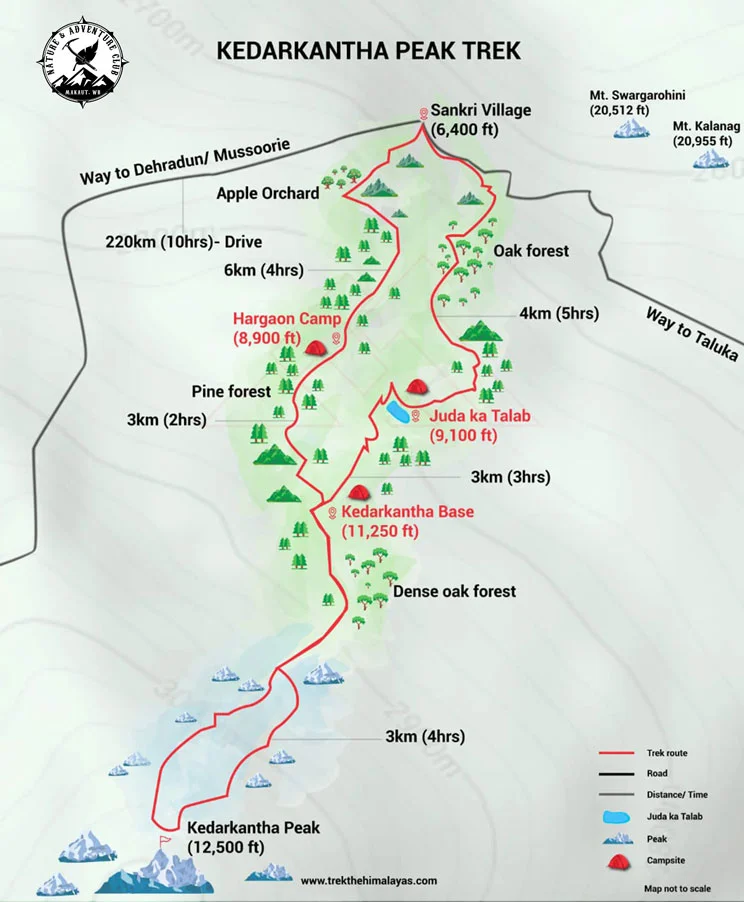
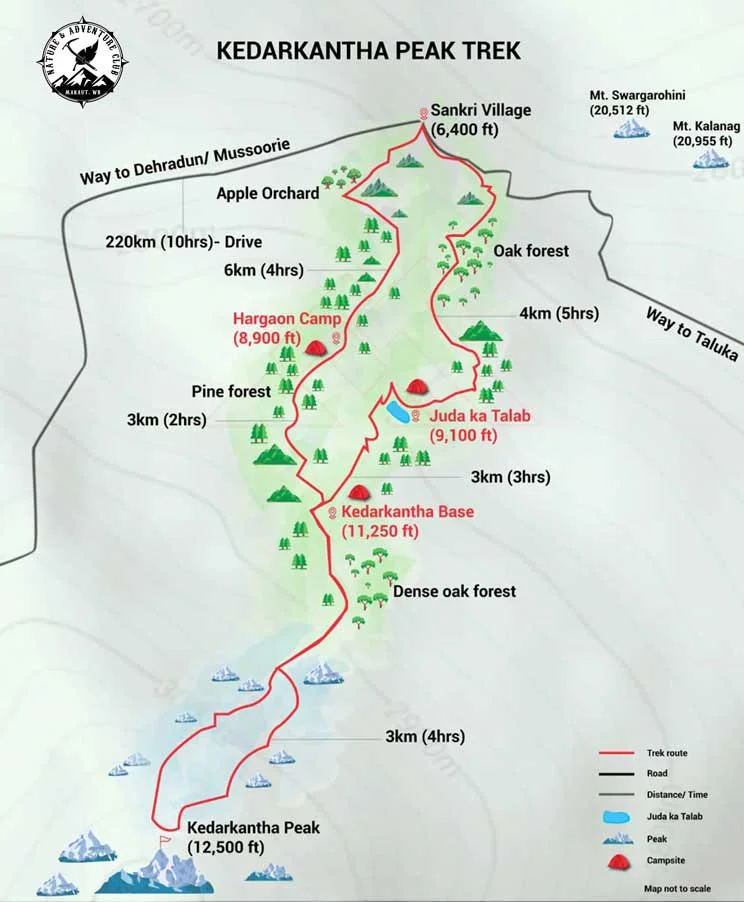
map updated

Changed region(s): [[0.4019, 0.9623, 0.5874, 0.9933]]

diff --git a/kedarkantha.html b/kedarkantha.html
@@ -515,10 +515,10 @@
                 </p>
 
 
-                <!-- <div class="w-full lg:w-2/3 xl:w-3/5 mx-auto pb-10 md:pb-5">
+                <div class="w-full lg:w-2/3 xl:w-3/5 mx-auto pb-10 md:pb-5">
                     <img class="w-full md:w-4/5 mx-auto drop-shadow-xl border-2 border-black"
                         src="assets/imgs/kedarkantha/kedarkantha-map-mnac.webp" loading="lazy" alt="map">
-                </div> -->
+                </div>
 
                
 
